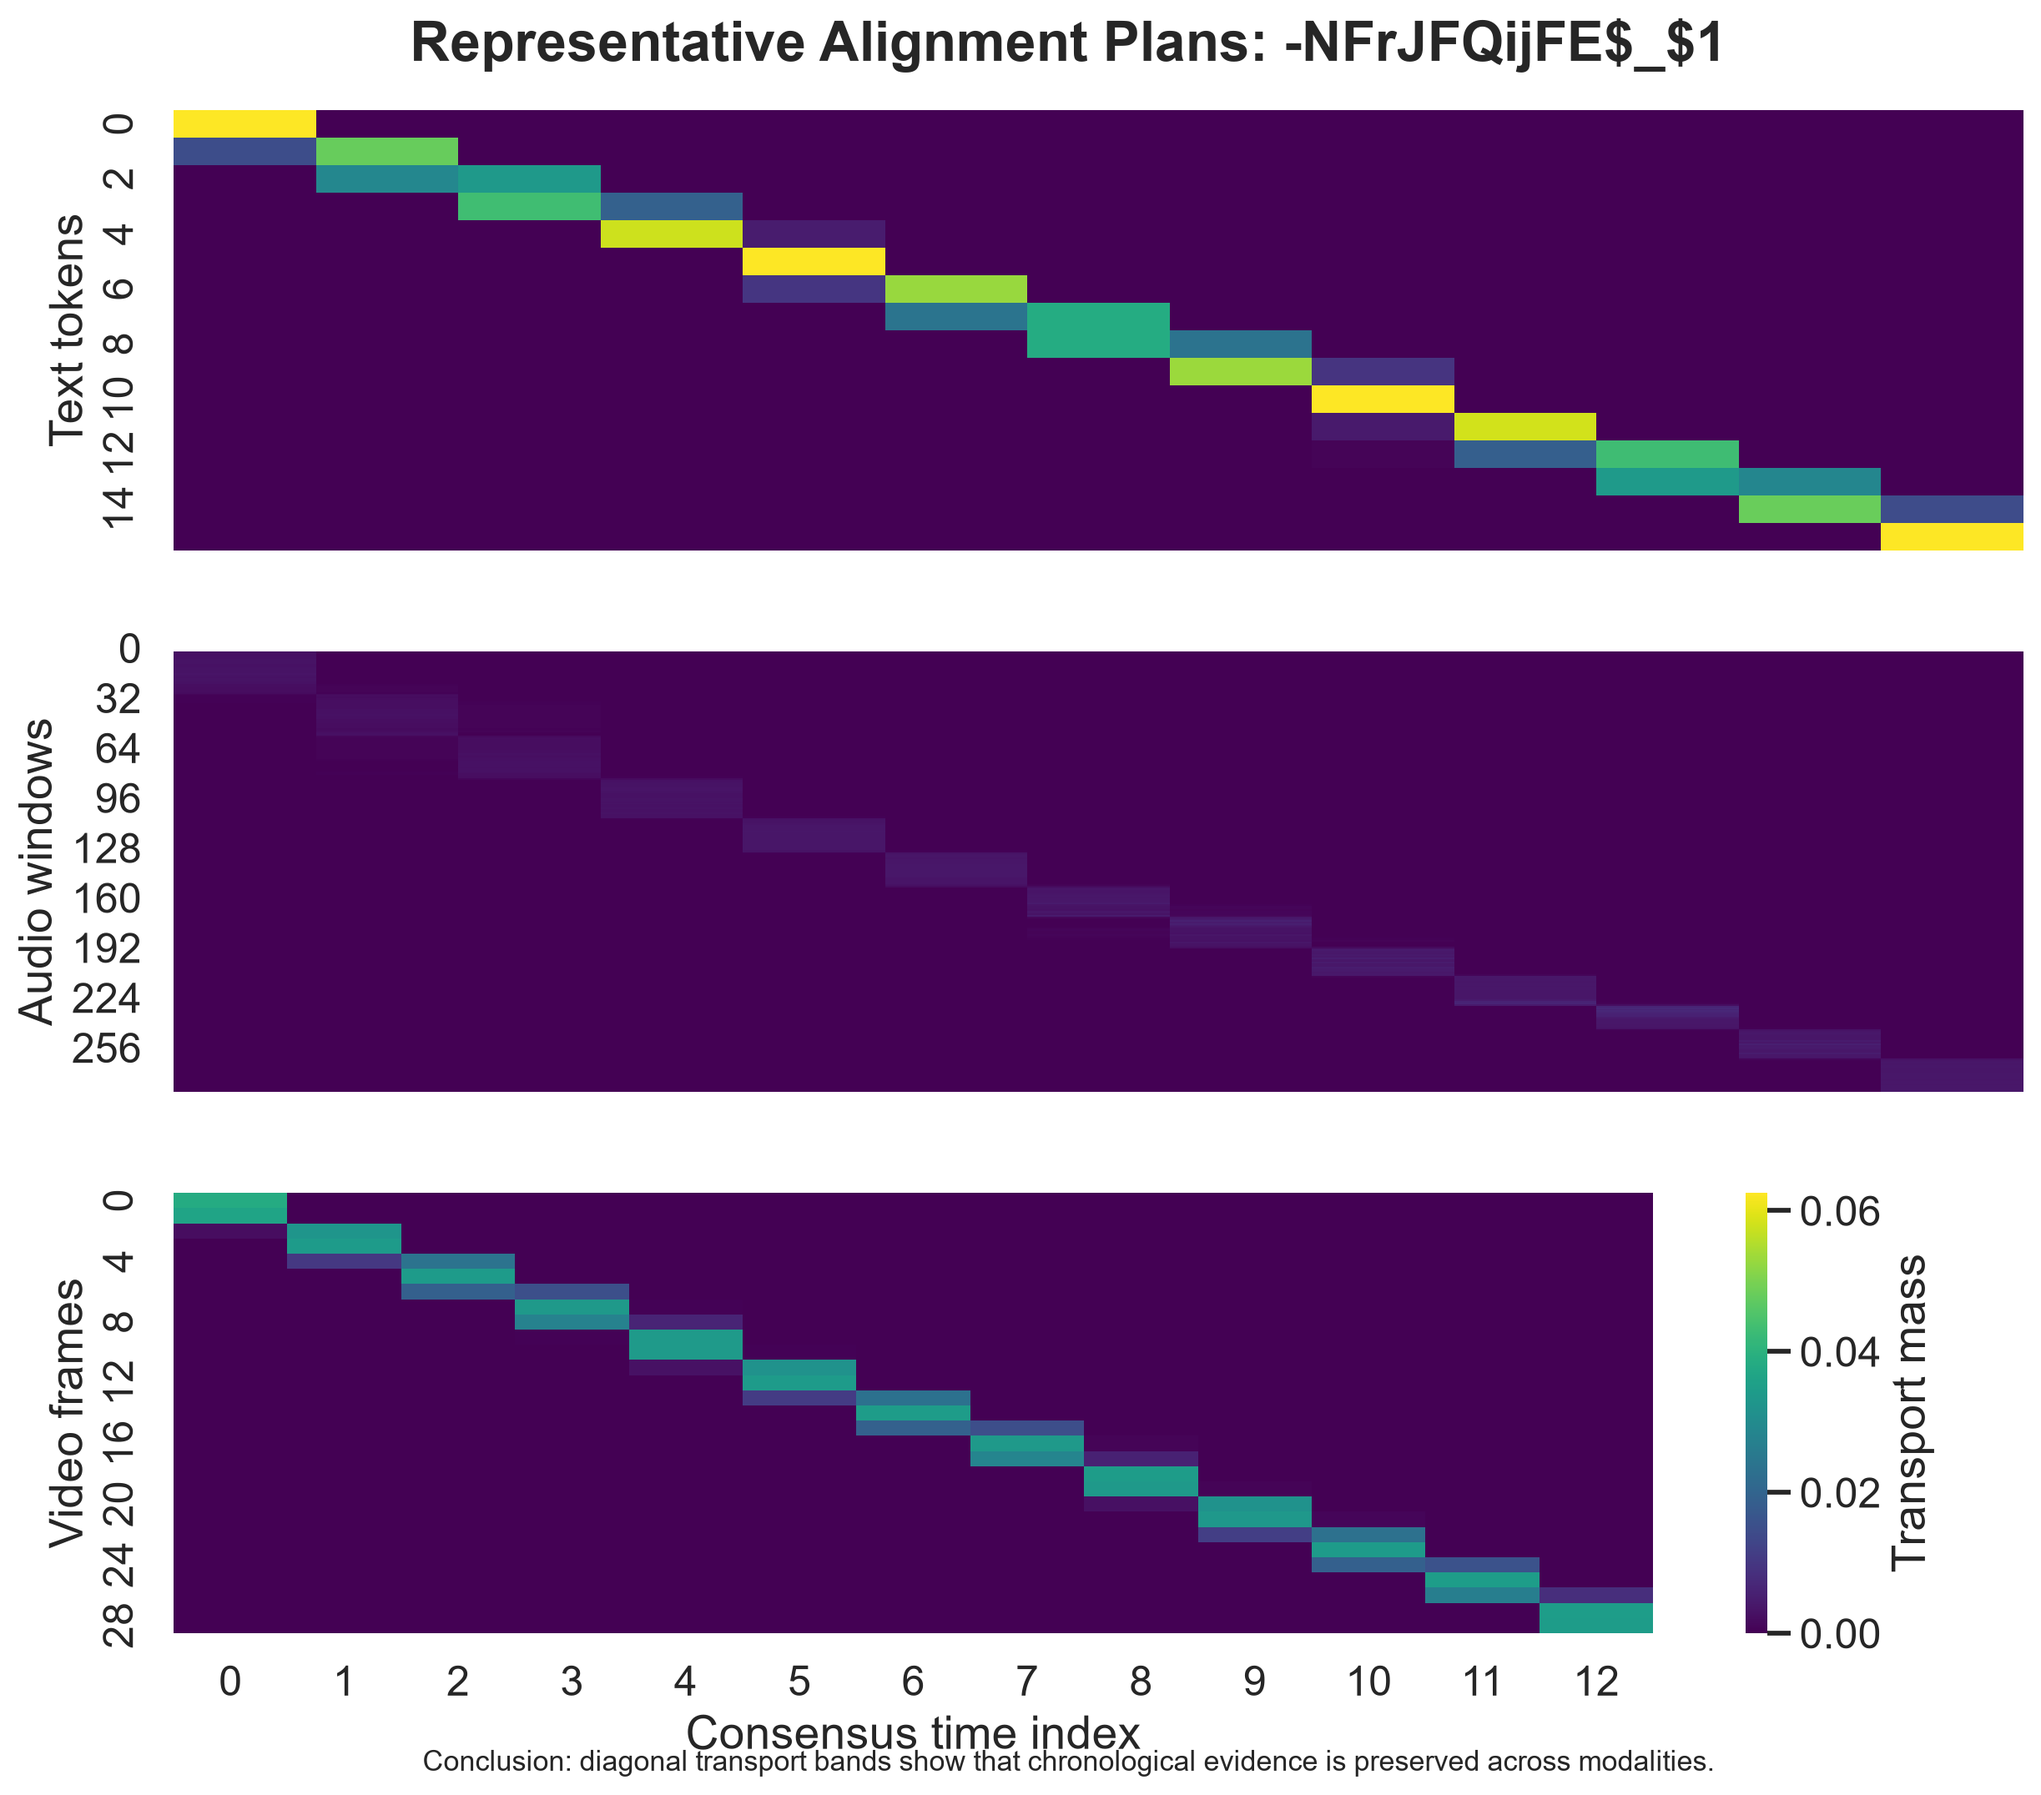
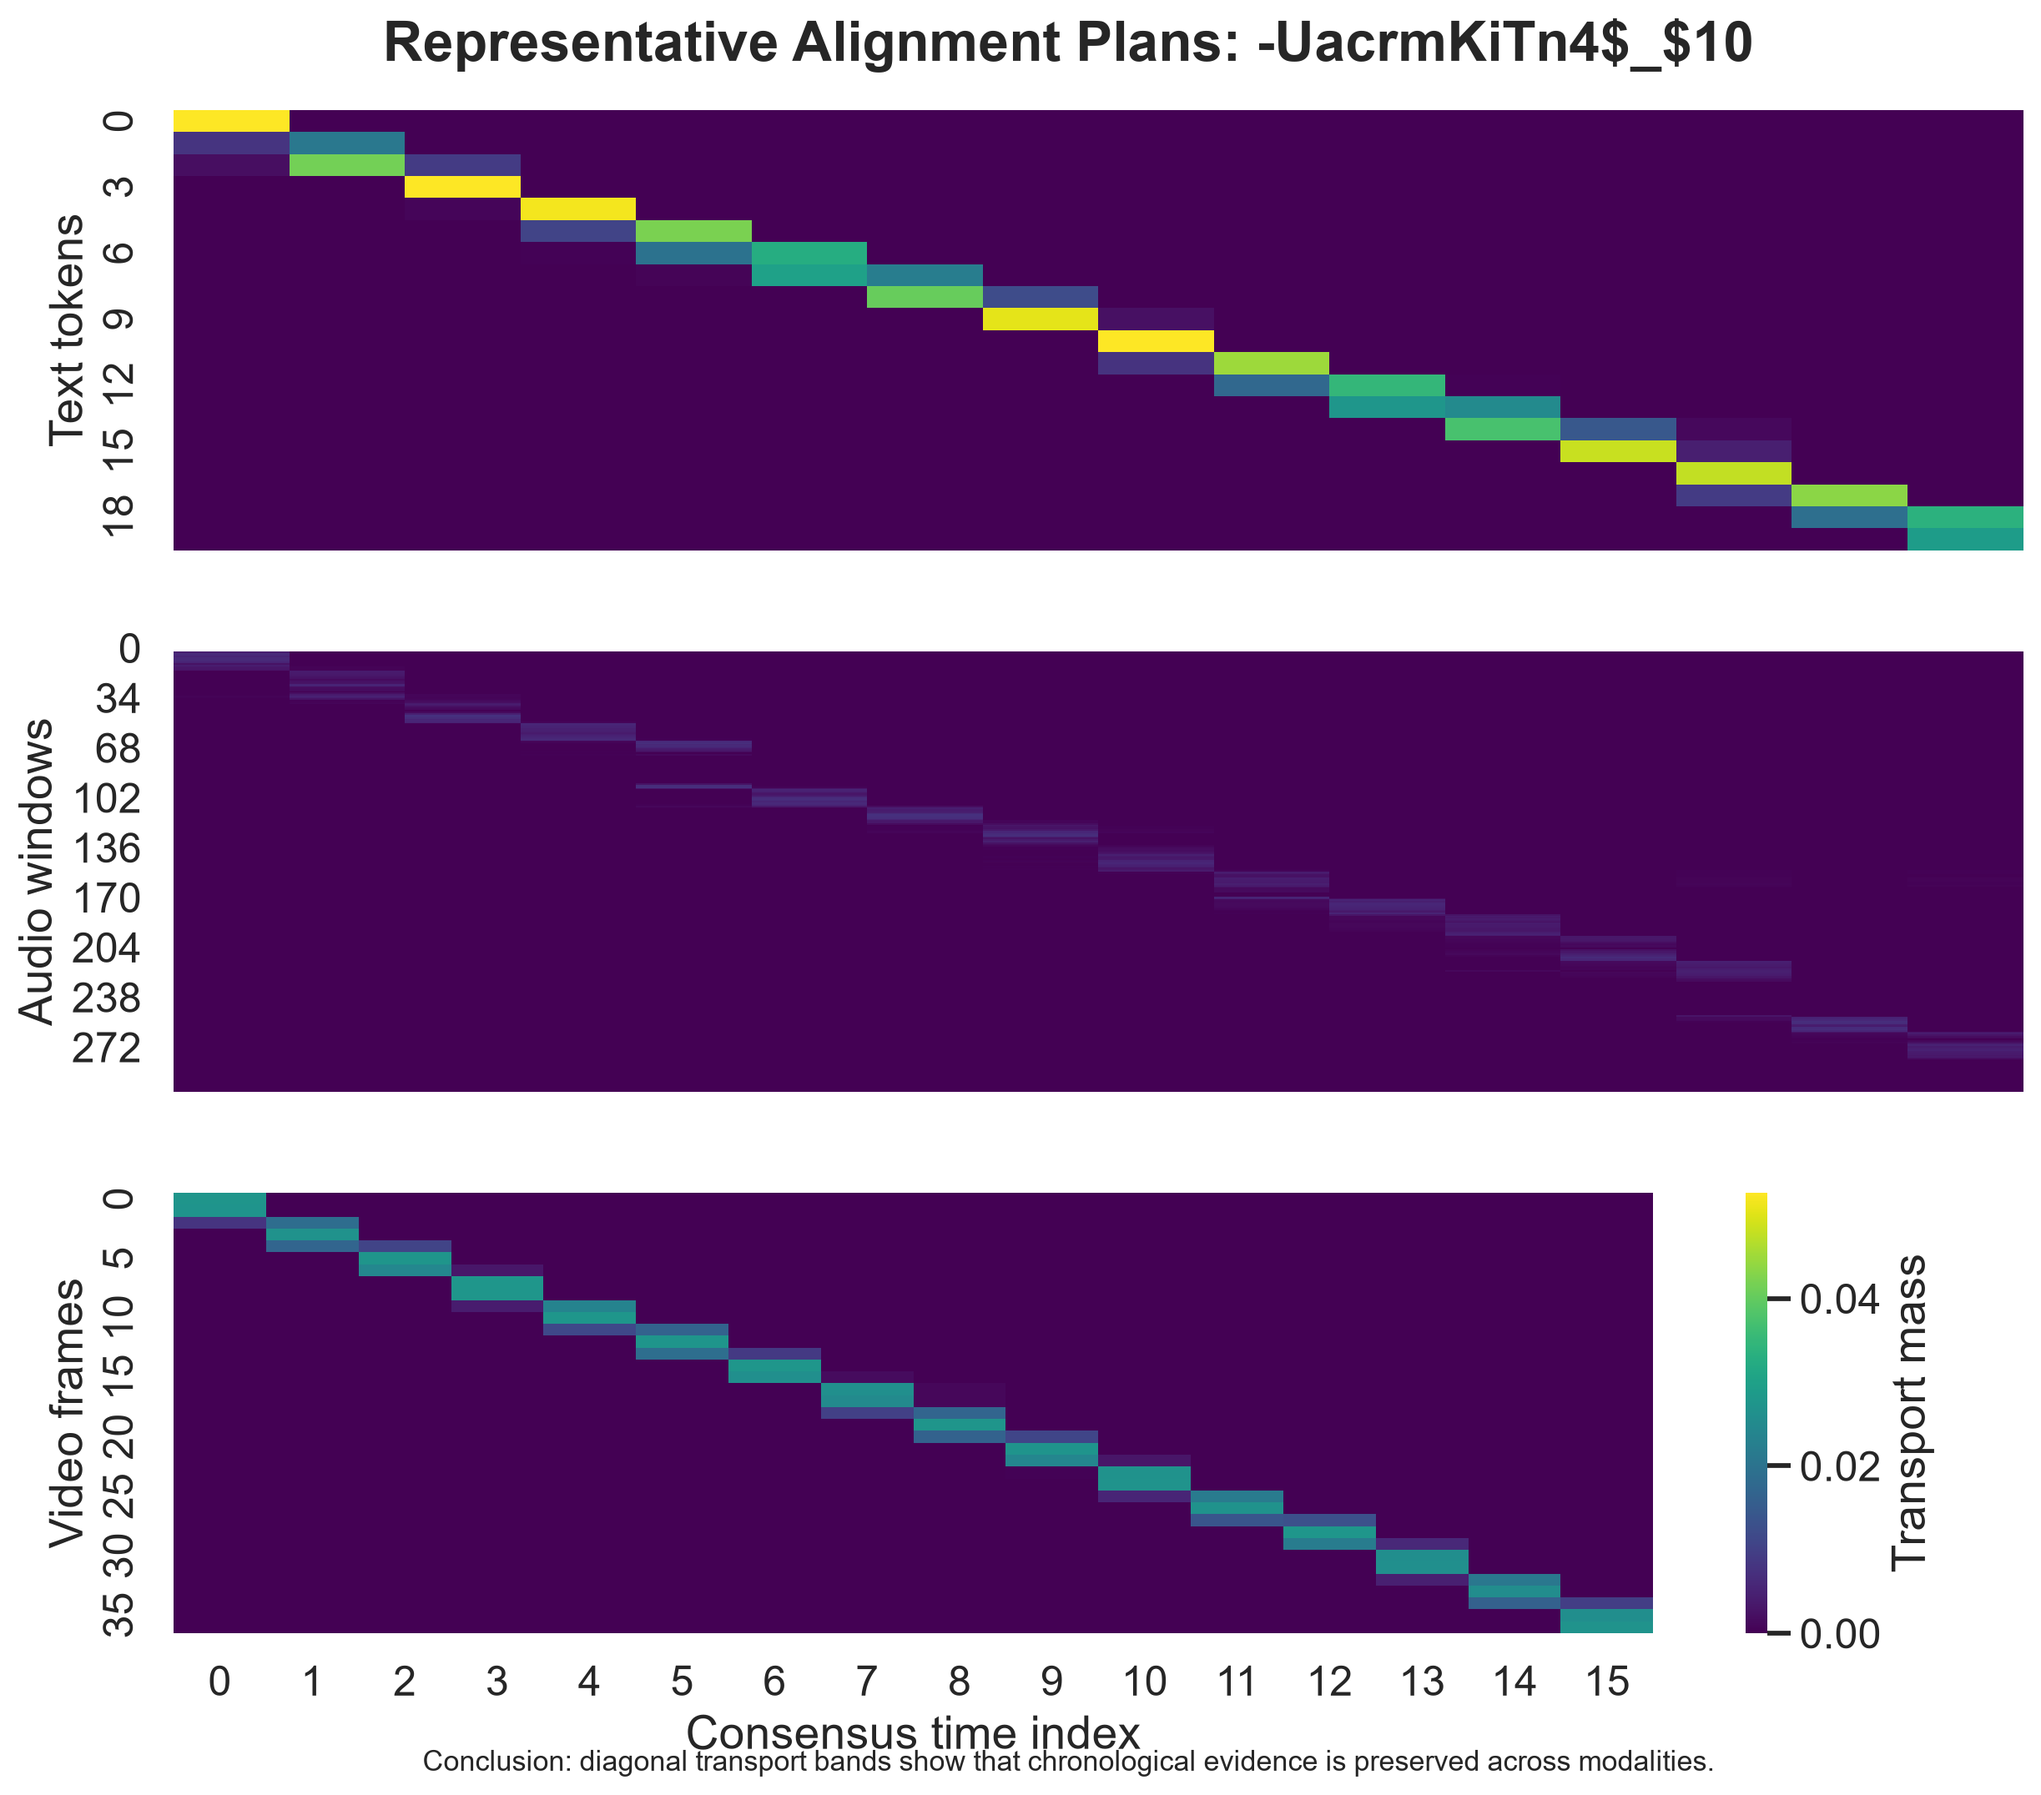
更换典型用例

diff --git a/src/problem1/visualization.py b/src/problem1/visualization.py
@@ -130,8 +130,42 @@ def _heatmap_chart(cfg: Problem1Config, sample_id: str, path: Path) -> None:
     plt.close(figure)
 
 
+def _face_detection_rates(cfg: Problem1Config) -> dict[str, float]:
+    report_path = cfg.path("feature_root") / "validation_report.json"
+    if not report_path.is_file():
+        return {}
+    report = json.loads(report_path.read_text(encoding="utf-8"))
+    return {
+        str(item["sample_id"]): float(item.get("vision_detection_rate", 0.0))
+        for item in report.get("samples", [])
+        if "vision_detection_rate" in item
+    }
+
+
+def _select_representative(cfg: Problem1Config, successful: list[dict[str, Any]]) -> tuple[str, str]:
+    """Prefer a face-visible sample, with an optional manual override."""
+    configured = str(cfg.section("visualization").get("representative_sample_id") or "").strip()
+    available = {item["sample_id"] for item in successful}
+    if configured:
+        if configured not in available:
+            raise ValueError(f"指定的代表性样本不在成功结果中: {configured}")
+        return configured, "配置文件 visualization.representative_sample_id 指定的样本。"
+    threshold = float(cfg.section("visualization").get("min_representative_face_detection_rate", 0.80))
+    rates = _face_detection_rates(cfg)
+    faced = [item for item in successful if rates.get(item["sample_id"], 0.0) >= threshold]
+    pool = faced or successful
+    chosen = sorted(pool, key=lambda item: float(item["mean_uncertainty"]))[len(pool) // 2]["sample_id"]
+    if faced:
+        rate = rates.get(chosen, 0.0)
+        return chosen, (
+            f"人脸检测率不低于 {threshold:.0%} 的成功样本中，不确定性中位数附近的样本"
+            f"（该样本检测率 {rate:.0%}）。"
+        )
+    return chosen, "没有达到人脸检测率要求的样本，退回全部成功样本的不确定性中位数。"
+
+
 def _representative_validation(cfg: Problem1Config, sample_id: str, figure_path: Path,
-                               table_path: Path, report_path: Path) -> None:
+                               table_path: Path, report_path: Path, selection_rule: str) -> None:
     """Create an auditable text/audio/video correspondence card for one typical sample."""
     plt, sns = _plot_modules()
     sample_dir = cfg.path("aligned_root") / "samples" / safe_id(sample_id)
@@ -241,7 +275,7 @@ def _representative_validation(cfg: Problem1Config, sample_id: str, figure_path:
     displayed = [rows[int(index)] for index in anchors]
     lines = [
         "# 问题一典型样本时序对齐验证", "",
-        f"- 样本编号：`{sample_id}`", "- 选择规则：全部成功样本中不确定性中位数附近的样本。",
+        f"- 样本编号：`{sample_id}`", f"- 选择规则：{selection_rule}",
         f"- 共识时间点：{len(rows)}；下表展示{len(displayed)}个均匀抽取的核验锚点。", "",
         "|共识位置|时间/s|文本片段|语音峰值时段/s|视频峰值帧与时段/s|不确定性|",
         "|---:|---:|---|---|---|---:|",
@@ -273,7 +307,7 @@ def create_visualizations(cfg: Problem1Config, records: list[dict[str, Any]],
         payload = json.loads(metrics_path.read_text(encoding="utf-8"))
         histories.append(payload["history"])
         metrics_payloads.append(payload["metrics"])
-    representative = sorted(successful, key=lambda item: item["mean_uncertainty"])[len(successful) // 2]["sample_id"]
+    representative, selection_rule = _select_representative(cfg, successful)
     paths = {
         "quality_overview": figures / "01_alignment_quality_overview.png",
         "convergence": figures / "02_consensus_convergence.png",
@@ -287,7 +321,7 @@ def create_visualizations(cfg: Problem1Config, records: list[dict[str, Any]],
     _convergence_chart(histories, paths["convergence"])
     _heatmap_chart(cfg, representative, paths["representative_heatmap"])
     _representative_validation(cfg, representative, paths["representative_validation"],
-                               representative_table, representative_report)
+                               representative_table, representative_report, selection_rule)
     uncertainty_values = np.asarray([item["mean_uncertainty"] for item in successful], dtype=float)
     modality_uncertainty = {
         name: float(np.mean([metrics["mean_uncertainty_by_modality"][name] for metrics in metrics_payloads]))
@@ -312,6 +346,7 @@ def create_visualizations(cfg: Problem1Config, records: list[dict[str, Any]],
     tolerance = float(cfg.section("alignment")["sinkhorn_tolerance"])
     summary = {
         "successful_samples": len(successful), "representative_sample": representative,
+        "representative_selection_rule": selection_rule,
         "mean_objective": float(np.mean([item["objective"] for item in successful])),
         "mean_uncertainty": float(uncertainty_values.mean()),
         "p90_uncertainty": float(np.quantile(uncertainty_values, 0.90)),

diff --git a/src/problem1/reporting.py b/src/problem1/reporting.py
@@ -69,7 +69,7 @@ def write_solution_report(cfg: Problem1Config, records: list[dict[str, Any]], su
 - 单调违例总数：{summary['total_monotonic_violations']}。
 - 单调投影前违例总数：{summary['total_preprojection_monotonic_violations']}；最终值只用于确认约束满足。
 - 提前达到共识容差的样本比例：{convergence:.2f}%（未提前停止并不表示失败，只表示运行到配置的迭代上限）。
-- 代表性样本：`{summary['representative_sample']}`。
+- 代表性样本：`{summary['representative_sample']}`。选择规则：{summary.get('representative_selection_rule', '不确定性中位数附近的样本。')}
 
 `aligned_dataset.npz` 是可直接用于后续情感预测的定长张量；每个样本目录中的 `mapping.json` 用于回溯词元、音频窗和视频帧，`metrics.json` 用于论文消融与误差分析。
 

diff --git a/outputs/problem1/reports/representative_sample_validation.md b/outputs/problem1/reports/representative_sample_validation.md
@@ -1,15 +1,15 @@
 # 问题一典型样本时序对齐验证
 
-- 样本编号：`-NFrJFQijFE$_$1`
-- 选择规则：全部成功样本中不确定性中位数附近的样本。
-- 共识时间点：13；下表展示5个均匀抽取的核验锚点。
+- 样本编号：`-UacrmKiTn4$_$10`
+- 选择规则：人脸检测率不低于 80% 的成功样本中，不确定性中位数附近的样本（该样本检测率 100%）。
+- 共识时间点：16；下表展示5个均匀抽取的核验锚点。
 
 |共识位置|时间/s|文本片段|语音峰值时段/s|视频峰值帧与时段/s|不确定性|
 |---:|---:|---|---|---|---:|
-|0|0.250|Structural mounts|0.280–0.305|#0，0.000–0.200|0.274|
-|3|1.707|have to|1.760–1.785|#35，1.400–1.600|0.303|
-|6|3.057|stress analyzed|3.380–3.405|#70，2.800–3.000|0.328|
-|9|4.302|make sure|4.500–4.525|#105，4.200–4.400|0.289|
-|12|5.494|that happens|5.320–5.345|#135，5.400–5.600|0.271|
+|0|0.208|Because ,|0.080–0.125|#0，0.000–0.200|0.272|
+|4|1.964|not in|2.200–2.225|#60，2.000–2.200|0.298|
+|8|3.720|accountable for|3.460–3.485|#114，3.800–4.000|0.308|
+|11|5.025|the material|4.620–4.645|#156，5.200–5.400|0.323|
+|15|6.851|it .|6.440–6.465|#215，7.200–7.333|0.313|
 
 完整逐点对应关系见 `representative_sample_alignment.csv`；可视化见 `04_representative_sample_validation.png`。

diff --git a/outputs/problem1/reports/model_solution.md b/outputs/problem1/reports/model_solution.md
@@ -49,7 +49,7 @@
 - 单调违例总数：0。
 - 单调投影前违例总数：206；最终值只用于确认约束满足。
 - 提前达到共识容差的样本比例：100.00%（未提前停止并不表示失败，只表示运行到配置的迭代上限）。
-- 代表性样本：`-NFrJFQijFE$_$1`。
+- 代表性样本：`-UacrmKiTn4$_$10`。选择规则：人脸检测率不低于 80% 的成功样本中，不确定性中位数附近的样本（该样本检测率 100%）。
 
 `aligned_dataset.npz` 是可直接用于后续情感预测的定长张量；每个样本目录中的 `mapping.json` 用于回溯词元、音频窗和视频帧，`metrics.json` 用于论文消融与误差分析。
 
